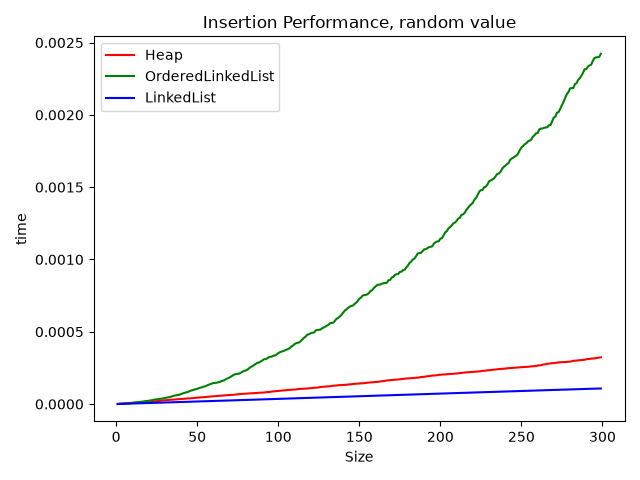
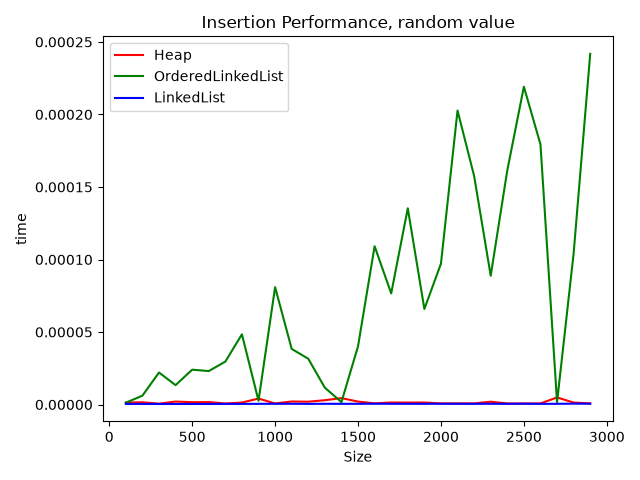
fixed a bug that constructed the data structures wrong during tests

diff --git a/PicchioniEs1LabAlg.py b/PicchioniEs1LabAlg.py
@@ -26,7 +26,10 @@ class Heap:
         if right < n and self.heap[right] > self.heap[largest]:
             largest = right
         if largest != i:
-            self.heap[i], self.heap[largest] = self.heap[largest], self.heap[i]
+            swapped = self.heap[i]
+            self.heap[i] = self.heap[largest]
+            self.heap[largest] = swapped
+            # self.heap[i], self.heap[largest] = self.heap[largest], self.heap[i]
             self.heapify(largest)
 
     def insert(self, x):
@@ -405,37 +408,43 @@ def measure_insert_time(data_type, number_of_operation, elements, time, repeats)
                 prio_queue = OrderedLinkedList()
             else:
                 prio_queue = LinkedList()
-            for e in elements[:i]:
-                prio_queue.insert(e)
+            # for e in elements[:i]:
+            #     prio_queue.insert(e)
 
-            new_value = elements[i]
+            # new_value = elements[i]
             start = timer()
-            prio_queue.insert(new_value)
+            for e in elements[:i]:
+                copy = prio_queue
+                prio_queue.insert(e)
+                prio_queue = copy
             end = timer()
-            best = min(best, end - start)
-        if len(time) == 0:
-            time.append(best)
-        else:
-            time.append(best + time[-1])
+            best = min(best, (end - start) / i)
+        # if len(time) == 0:
+        #     time.append(best)
+        # else:
+        #     time.append(best + time[-1])
+        time.append(best)
     plot_graph(data_type, number_of_operation, time)
 
 
-def insert_test(test_type, types_to_test):
-    number_of_elements = 300
-    step = 1
-    number_of_operation = range(step, number_of_elements, step)
-    interval_end = 300
-    number_of_repeats = 10
-
+def insert_test(
+    test_type,
+    types_to_test,
+    number_of_elements,
+    number_of_operation,
+    interval_end,
+    number_of_repeats,
+    inputs,
+):
     # Testing insertion of highest value
     if test_type == 1:
         test_type_string = "highest"
-        inputs = range(interval_end)
+        inputs = range(number_of_elements)
         print("## Testing insertion of highest value")
     # Testing insertion of lowest value
     elif test_type == 2:
         test_type_string = "lowest"
-        inputs = range(interval_end, 0, -1)
+        inputs = range(number_of_elements, 0, -1)
         print("## Testing insertion of lowest value")
     else:
         # Testing insertion of random value
@@ -464,14 +473,12 @@ def insert_test(test_type, types_to_test):
     plt.clf()
 
 
-def remove_max_test(data_type):
-    number_of_elements = 300
-    step = 1
-    number_of_operation = range(step, number_of_elements, step)
-    interval_end = 300
-    number_of_repeats = 100
-    inputs = random.choices(range(interval_end), k=number_of_elements)
-
+def remove_max_test(
+    data_type,
+    number_of_operation,
+    number_of_repeats,
+    inputs,
+):
     time = []
     for k in number_of_operation:
         best = inf
@@ -482,28 +489,32 @@ def remove_max_test(data_type):
                 prio_queue = OrderedLinkedList()
             else:
                 prio_queue = LinkedList()
-            for _ in inputs[:k]:
-                prio_queue.insert(k)
+            for e in inputs[:k]:
+                prio_queue.insert(e)
 
             start = timer()
-            prio_queue.remove_max()
+            for _ in inputs[:k]:
+                copy = prio_queue
+                prio_queue.remove_max()
+                prio_queue = copy
             end = timer()
-            best = min(best, end - start)
-        if len(time) == 0:
-            time.append(best)
-        else:
-            time.append(best + time[-1])
+            best = min(best, (end - start) / k)
+        # if len(time) == 0:
+        #     time.append(best)
+        # else:
+        #     time.append(best + time[-1])
+        time.append(best)
 
     plot_graph(data_type, number_of_operation, time)
 
 
-def increase_key_test(data_type):
-    number_of_elements = 300
-    step = 1
-    number_of_operation = range(step, number_of_elements, step)
-    interval_end = 3000
-    number_of_repeats = 100
-    inputs = random.choices(range(interval_end), k=number_of_elements)
+def increase_key_test(
+    data_type,
+    number_of_operation,
+    interval_end,
+    number_of_repeats,
+    inputs,
+):
     time = []
 
     for k in number_of_operation:
@@ -515,8 +526,8 @@ def increase_key_test(data_type):
                 prio_queue = OrderedLinkedList()
             else:
                 prio_queue = LinkedList()
-            for _ in inputs[:k]:
-                prio_queue.insert(k)
+            for e in inputs[:k]:
+                prio_queue.insert(e)
 
             # TODO decide which test makes more sense. probably the worst case scenario
             # random_index = random.choice(range(k))
@@ -529,27 +540,56 @@ def increase_key_test(data_type):
             prio_queue.increase_key(random_index, random_value)
             end = timer()
             best = min(best, end - start)
-        if len(time) == 0:
-            time.append(best)
-        else:
-            time.append(best + time[-1])
+        # if len(time) == 0:
+        #     time.append(best)
+        # else:
+        #     time.append(best + time[-1])
+        time.append(best)
 
     plot_graph(data_type, number_of_operation, time)
 
 
-# also do a graph for highest/lowest between Heap and LinkedList
+number_of_elements = 3000
+step = 100
+number_of_operation = range(step, number_of_elements, step)
+interval_end = 3000
+number_of_repeats = 5
+inputs = random.choices(range(interval_end), k=number_of_elements)
+
+# TODO remove testing lowest, same results as random
 print("# Testing Insertion cases")
 types_to_test = range(3)
-for i in range(3):
-    insert_test(i, types_to_test)
+for i in [1, 2]:
+    insert_test(
+        i,
+        types_to_test,
+        number_of_elements,
+        number_of_operation,
+        interval_end,
+        number_of_repeats,
+        inputs,
+    )
 
 print("# Testing Insertion cases, only Heap and LinkedList")
 types_to_test = [0, 2]
-insert_test(0, types_to_test)
+insert_test(
+    1,
+    types_to_test,
+    number_of_elements,
+    number_of_operation,
+    interval_end,
+    number_of_repeats,
+    inputs,
+)
 
 print("# Testing Remove_Max")
 for i in range(3):
-    remove_max_test(i)
+    remove_max_test(
+        i,
+        number_of_operation,
+        number_of_repeats,
+        inputs,
+    )
 
 # also make a graph for only heap and OrderedLinkedList
 plt.title("Remove_Max Performance")
@@ -562,7 +602,12 @@ plt.clf()
 
 print("# Testing Remove_Max, only Heap and OrderedLinkedList")
 for i in range(2):
-    remove_max_test(i)
+    remove_max_test(
+        i,
+        number_of_operation,
+        number_of_repeats,
+        inputs,
+    )
 
 # also make a graph for only heap and OrderedLinkedList
 plt.title("Remove_Max Performance")
@@ -575,7 +620,13 @@ plt.clf()
 
 print("# Testing Increase_key")
 for i in range(3):
-    increase_key_test(i)
+    increase_key_test(
+        i,
+        number_of_operation,
+        interval_end,
+        number_of_repeats,
+        inputs,
+    )
 
 plt.title("Increase_key Performance")
 plt.xlabel("Size")
